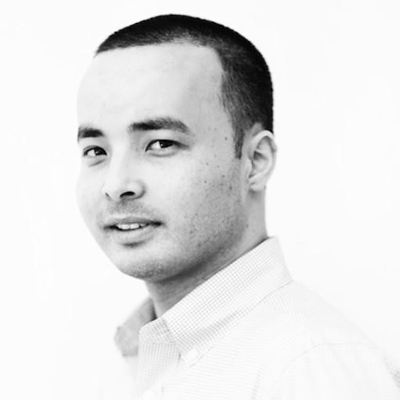
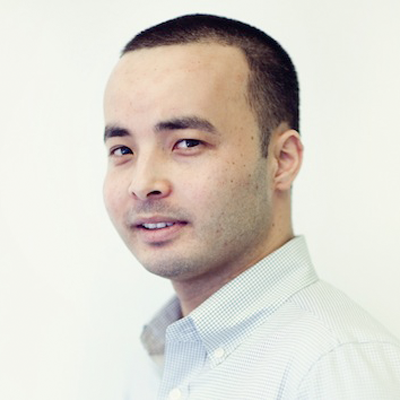
removed OSTP projects, updated footer per WH comms request (and added in Twitter feed), partial work on Google Docs hack, updated some PIF photos

diff --git a/_includes/footer.html b/_includes/footer.html
@@ -7,27 +7,22 @@
       </div>
     </div>
     <div class="row" id="footer-text">
-      <div class="col-md-1 col-md-offset-1 col-sm-2 hidden-xs">
-        <img src="{{ baseurl }}/images/logo-18f.png">
-        <br/>
-        <img src="{{ baseurl }}/images/logo-gsa.png">
-      </div>
-      <div class="col-md-6 col-md-offset-1 col-sm-8">
+      <div class="col-md-7 col-md-offset-1 col-sm-12">
         <div class="row">
-          <div class="col-md-5 col-md-offset-1 col-sm-6">
+          <div class="col-sm-6">
             <ul>
-              <li><h4><a href="{{ baseurl }}/fellows">Fellows</a></h4></li>
-              <li><h4><a href="{{ baseurl }}/projects">Projects</a></h4></li>
-              <li><h4><a href="{{ baseurl }}/agencies">Agencies</a></h4></li>
-              <li><h4><a href="{{ baseurl }}/leadership">Leadership</a></h4></li>
-              <li><h4><a href="{{ baseurl }}/about">About</a></h4></li>
-              <li><h4><a href="{{ baseurl }}/faq">FAQ</a></h4></li>
+              <li><h4><a href="{{ baseurl }}/fellows">Meet the Fellows</a></h4></li>
+              <li><h4><a href="{{ baseurl }}/projects">Project Case Studies</a></h4></li>
+              <li><h4><a href="{{ baseurl }}/agencies">Agencies Supported</a></h4></li>
+              <li><h4><a href="{{ baseurl }}/leadership">Leadership Team</a></h4></li>
+              <li><h4><a href="{{ baseurl }}/about">About Us</a></h4></li>
+              <li><h4><a href="{{ baseurl }}/faq">FAQs</a></h4></li>
             </ul>
           </div>
-          <div class="col-md-5 col-md-offset-1 col-sm-6 hidden-xs">
+          <div class="col-sm-6 hidden-xs">
             <ul>
-              <li><h4><a href="https://www.whitehouse.gov/innovationfellows" target="_blank">White House</a></h4></li>
-              <li><h4><a href="https://www.whitehouse.gov/issues" target="_blank">Presidential Priorities</a></h4></li>
+              <li><h4><a href="https://whitehouse.gov/innovationfellows" target="_blank">White House</a></h4></li>
+              <li><h4><a href="https://whitehouse.gov/issues" target="_blank">Presidential Priorities</a></h4></li>
               <li><h4><a href="{{ baseurl }}/betalab" target="_blank">BetaLab</a></h4></li>
               <li><h4><a href="https://gsa.gov" target="_blank">GSA</a></h4></li>
               <li><h4><a href="https://18f.gsa.gov" target="_blank">18F</a></h4></li>
@@ -36,10 +31,29 @@
           </div>
         </div>
       </div>
-      <div class="col-md-1 col-md-offset-1 col-sm-2 hidden-xs">
-        <img src="{{ baseurl }}/images/logo-white-house.png">
-        <br/>
-        <img src="{{ baseurl }}/images/logo-usds.png">
+      <div class="col-md-3 hidden-xs hidden-sm">
+        <a class="twitter-timeline" href="https://twitter.com/InnovFellows" data-widget-id="616461394670710784">Tweets by @InnovFellows</a>
+        <script>!function(d,s,id){var js,fjs=d.getElementsByTagName(s)[0],p=/^http:/.test(d.location)?'http':'https';if(!d.getElementById(id)){js=d.createElement(s);js.id=id;js.src=p+"://platform.twitter.com/widgets.js";fjs.parentNode.insertBefore(js,fjs);}}(document,"script","twitter-wjs");</script>
+      </div>
+    </div>
+    <div class="row">
+      <div class="col-md-10 col-md-offset-1" id="gov-links">
+        <p><a href="{{ baseurl }}/sitemap.xml" target="_blank">SITEMAP</a> | <a href="http://www.gsa.gov/portal/content/116609" target="_blank">PRIVACY</a> | <a href="https://18f.gsa.gov/linking-policy/" target="_blank">LINKING POLICY</a></p>
+      </div>
+    </div>
+    <div class="row" id="disclaimer">
+      <div class="col-md-5 col-md-offset-1 col-sm-7">
+        <div class="row">
+          <div class="col-sm-3">
+            <img src="{{ baseurl }}/images/logo-gsa.png" id="gsa-logo">
+          </div>
+          <div class="col-sm-9">
+            <p>A federal government website managed by the U.S. General Services Administration. 1800 F Street Northwest, Washington, DC 20405</p>
+          </div>
+        </div>
+      </div>
+      <div class="col-md-1 col-md-offset-4 col-sm-2 col-sm-offset-3 hidden-xs">
+        <img src="{{ baseurl }}/images/logo-white-house.png" class="img-responsive">
       </div>
     </div>
   </div>

diff --git a/pages/agencies.html b/pages/agencies.html
@@ -17,7 +17,7 @@ permalink: agencies/
 			<h5>We work with federal partners that share our values for providing citizen-centric solutions and deploying agile solutions using the best principles and practices of the innovation community.<br/><br/>Acting like a government-to-government incubator, which we call “<a href="{{ baseurl }}betalab">BetaLab</a>”,  Presidential Innovation Fellows and their agency partners explore problems, uncover insights, and create exciting new opportunities to improve our government.  Our approach includes workshopping, deep dives, design sprints, live user-testing, and rapid prototyping with the goal of maximizing results in the shortest possible timeframe.<br/><br/>If you are a federal employee or agency and would like to work with us, we’d like to hear from you.</h5><br/>
 			<div class="row">
 				<div class="col-sm-4 col-sm-offset-4">
-					<a href="{{ url }}/proposal"><button class="btn btn-default btn-lg btn-primary btn-block">Work With Us!</button></a>
+					<a href="https://docs.google.com/forms/d/1mgnKjMOUHA3jUIONrPoOKcQSxcPQu-nlYcqeUlqEpr0/viewform"><button class="btn btn-default btn-lg btn-primary btn-block">Work With Us!</button></a>
 				</div>
 			</div>
 			<br/><br/>
@@ -36,7 +36,7 @@ permalink: agencies/
 					<hr/>
 					<div class="row" id="agency-fellow-list">
 						<div class="col-md-12">
-							<ul>{% assign a = agency_hash[1] %}{% for f in a.fellows %}{% for fellow_hash in site.data.fellows %}{% assign fellow_id = fellow_hash[0] %}{% assign fellow_info = fellow_hash[1] %}{% if fellow_id == f %}<li><a href="{{ baseurl }}/fellows#{{ fellow_info.id }}"><img src="/images/{{ fellow_info.year }}/{{ fellow_info.img }}" class="img-circle"></a></li>{% endif %}{% endfor %}{% endfor %}</ul>
+							<ul>{% assign a = agency_hash[1] %}{% for f in a.fellows %}{% for fellow_hash in site.data.fellows %}{% assign fellow_id = fellow_hash[0] %}{% assign fellow_info = fellow_hash[1] %}{% if fellow_id == f %}<li><!-- <a href="{{ baseurl }}/fellows#{{ fellow_info.id }}"> --><img src="/images/{{ fellow_info.year }}/{{ fellow_info.img }}" class="img-circle"><!-- </a> --></li>{% endif %}{% endfor %}{% endfor %}</ul>
 						</div>
 					</div>
 				</div>
@@ -52,7 +52,7 @@ permalink: agencies/
 					<hr/>
 					<div class="row" id="agency-fellow-list">
 						<div class="col-md-12">
-							<ul>{% assign a = agency_hash[1] %}{% for f in a.fellows %}{% for fellow_hash in site.data.fellows %}{% assign fellow_id = fellow_hash[0] %}{% assign fellow_info = fellow_hash[1] %}{% if fellow_id == f %}<li><a href="{{ baseurl }}/fellows#{{ fellow_info.id }}"><img src="/images/{{ fellow_info.year }}/{{ fellow_info.img }}" class="img-circle"></a></li>{% endif %}{% endfor %}{% endfor %}</ul>
+							<ul>{% assign a = agency_hash[1] %}{% for f in a.fellows %}{% for fellow_hash in site.data.fellows %}{% assign fellow_id = fellow_hash[0] %}{% assign fellow_info = fellow_hash[1] %}{% if fellow_id == f %}<li><!-- <a href="{{ baseurl }}/fellows#{{ fellow_info.id }}"> --><img src="/images/{{ fellow_info.year }}/{{ fellow_info.img }}" class="img-circle"><!-- </a> --></li>{% endif %}{% endfor %}{% endfor %}</ul>
 						</div>
 					</div>
 				</div>

diff --git a/js/main.js b/js/main.js
@@ -185,17 +185,22 @@ function proposal() {
   var position = $("#inputTitle").val();
   var role = $("#inputRole").val();
   // var cto = $("inputCTO").val();
+  var cto = 'yes';
   var cto_contact = $("#inputCTOcontact").val();
   // var priority = $("inputPres").val();
+  var priority = 'something';
   var problem = $("#inputProblem").val();
   var solution = $("#inputSolution").val();
   var impact = $("#inputImpact").val();
   var data = $("#inputData").val();
   // var skill = $("#inputSkill").val();
+  var skill = 'recruiting';
   var domain = $("#inputDomain").val();
   // var number = $("#inputNum").val();
+  var number = 4;
   var sponsor = $("#inputSponsor").val();
   // var length = $("#inputLength").val();
+  var length = 6;
 
   // disable button
   // $('#proposalButton').prop("disabled", true);
@@ -208,23 +213,39 @@ function proposal() {
             "entry_2052643685": email,
             "entry_1717830975": position,
             "entry_441930163": role,
-            //"entry_1059845155": cto,
+            "entry_1059845155": cto,
             "entry_984976714": cto_contact,
-            //"entry_2015518157": priority,
+            "entry_2015518157": priority,
             "entry_1896597527": problem,
             "entry_1910247938": solution,
             "entry_349657906": impact,
             "entry_1140645356": data,
-            //"entry_103429177": skill,
+            "entry_103429177": skill,
             "entry_737405442": domain,
-            //"entry_757989308": number,
-            "entry_1329682796": sponsor },
-            //"entry_1622924413": length 
+            "entry_757989308": number,
+            "entry_1329682796": sponsor,
+            "entry_1622924413": length },
     type: "POST",
     dataType: "xml",
     statusCode: {
       0: function () {
         console.log('submission1');
+        console.log(name);
+        console.log(email);
+        console.log(position);
+        console.log(role);
+        console.log(cto);
+        console.log(cto_contact);
+        console.log(priority);
+        console.log(problem);
+        console.log(solution);
+        console.log(impact);
+        console.log(data);
+        console.log(skill);
+        console.log(domain);
+        console.log(number).
+        console.log(sponsor);
+        console.log(length);
         // document.getElementById("waitEmail2").value = '';
         // document.getElementById("inputName").value= '';
         // document.getElementById("inputEmail").value= '';

diff --git a/_sass/_layout.scss b/_sass/_layout.scss
@@ -202,6 +202,7 @@ body{
   background-color:#3C547C;
   #footer-text{
     margin-top:50px;
+    margin-bottom:25px;
   }
   ul{
     list-style-type: none;
@@ -220,6 +221,30 @@ body{
   }
   img{
     display:block;
+  }
+  #gov-links{
+    a, p{
+      color:$gray-lighter;
+    }
+    p{
+      padding-top:10px;
+      padding-bottom:10px;
+      border-top-style:solid;
+      border-top-width: 1px;
+      border-top-color:$gray-lighter;
+      border-bottom-style:solid;
+      border-bottom-width: 1px;
+      border-bottom-color:$gray-lighter; 
+    }
+  }
+  #disclaimer{
+    margin-top:25px;
+    a, p{
+      color:$gray-lighter;
+    }
+    p{
+      padding-top:5px;
+    }
   }
 }
 
@@ -615,6 +640,12 @@ body{
   }
 }
 
+// PRIVACY
+#privacy{
+  padding-top:50px;
+  padding-bottom:75px;
+}
+
 // BetaLab
 #betalab{
   padding-top:50px;
@@ -625,7 +656,7 @@ body{
 @media (min-width: 992px) {
   // GENERAL
   body{
-    margin-bottom:442px;
+    margin-bottom:650px;
   }
   #cta{
     h4{
@@ -829,7 +860,7 @@ body{
 @media (min-width: 768px) and (max-width: 991px) {
   // GENERAL
   body{
-    margin-bottom:442px;
+    margin-bottom:650px;
   }
   #cta{
     h4{
@@ -906,7 +937,7 @@ body{
 @media (max-width: 767px){
   // GENERAL
   body{
-    margin-bottom:401px;
+    margin-bottom:775px;
   }
   .navbar{
     min-height:81px;
@@ -932,8 +963,18 @@ body{
 
   // FOOTER
   #footer{
-    height:465px;
+    height:775px;
     #footer-text{
+      text-align:center;
+    }
+    img{
+      margin-left:auto;
+      margin-right:auto;
+    }
+    #gov-links{
+      text-align:center;
+    }
+    #disclaimer{
       text-align:center;
     }
   }
